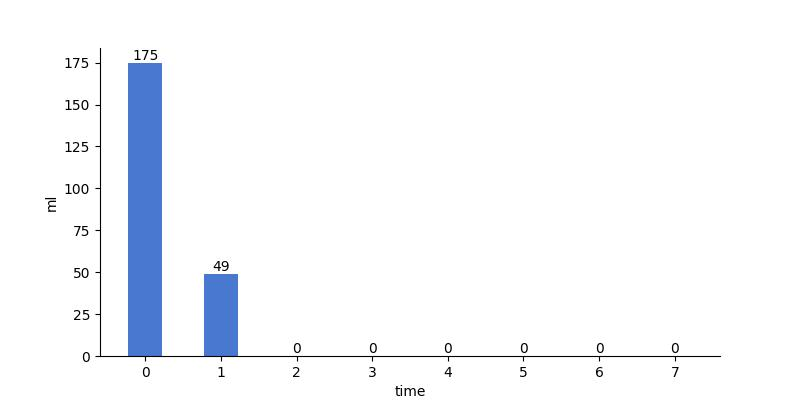
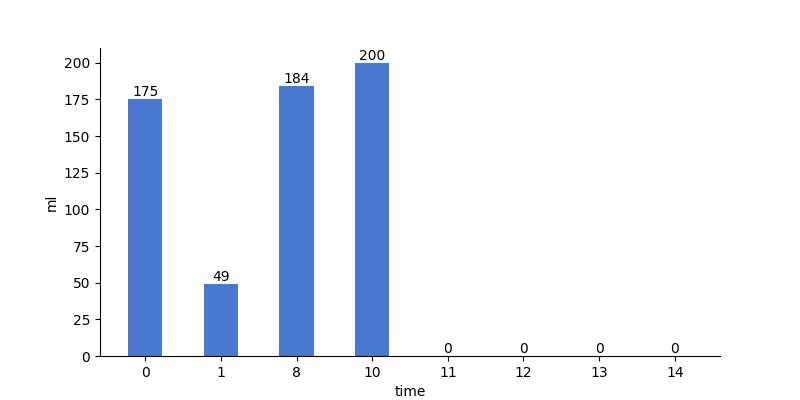
generated readme

diff --git a/README.md b/README.md
@@ -5,12 +5,12 @@
 
 | 今日总饮水量 | 每小时平均饮水量 |
 | :----: | :----: |
-| 224 | 112 |
+| 608 | 152 |
 </div>
 
-| 日期 | 00:03:24 | 00:20:24 | 01:27:05 |
-| :----: | :----: | :----: | :----: |
-| 2022-10-23 | 93 | 82 | 49 |
+| 日期 | 00:03:24 | 00:20:24 | 01:27:05 | 08:59:00 | 10:10:14 |
+| :----: | :----: | :----: | :----: | :----: | :----: |
+| 2022-10-23 | 93 | 82 | 49 | 184 | 200 |
 
 # 近30日饮水数据
 
